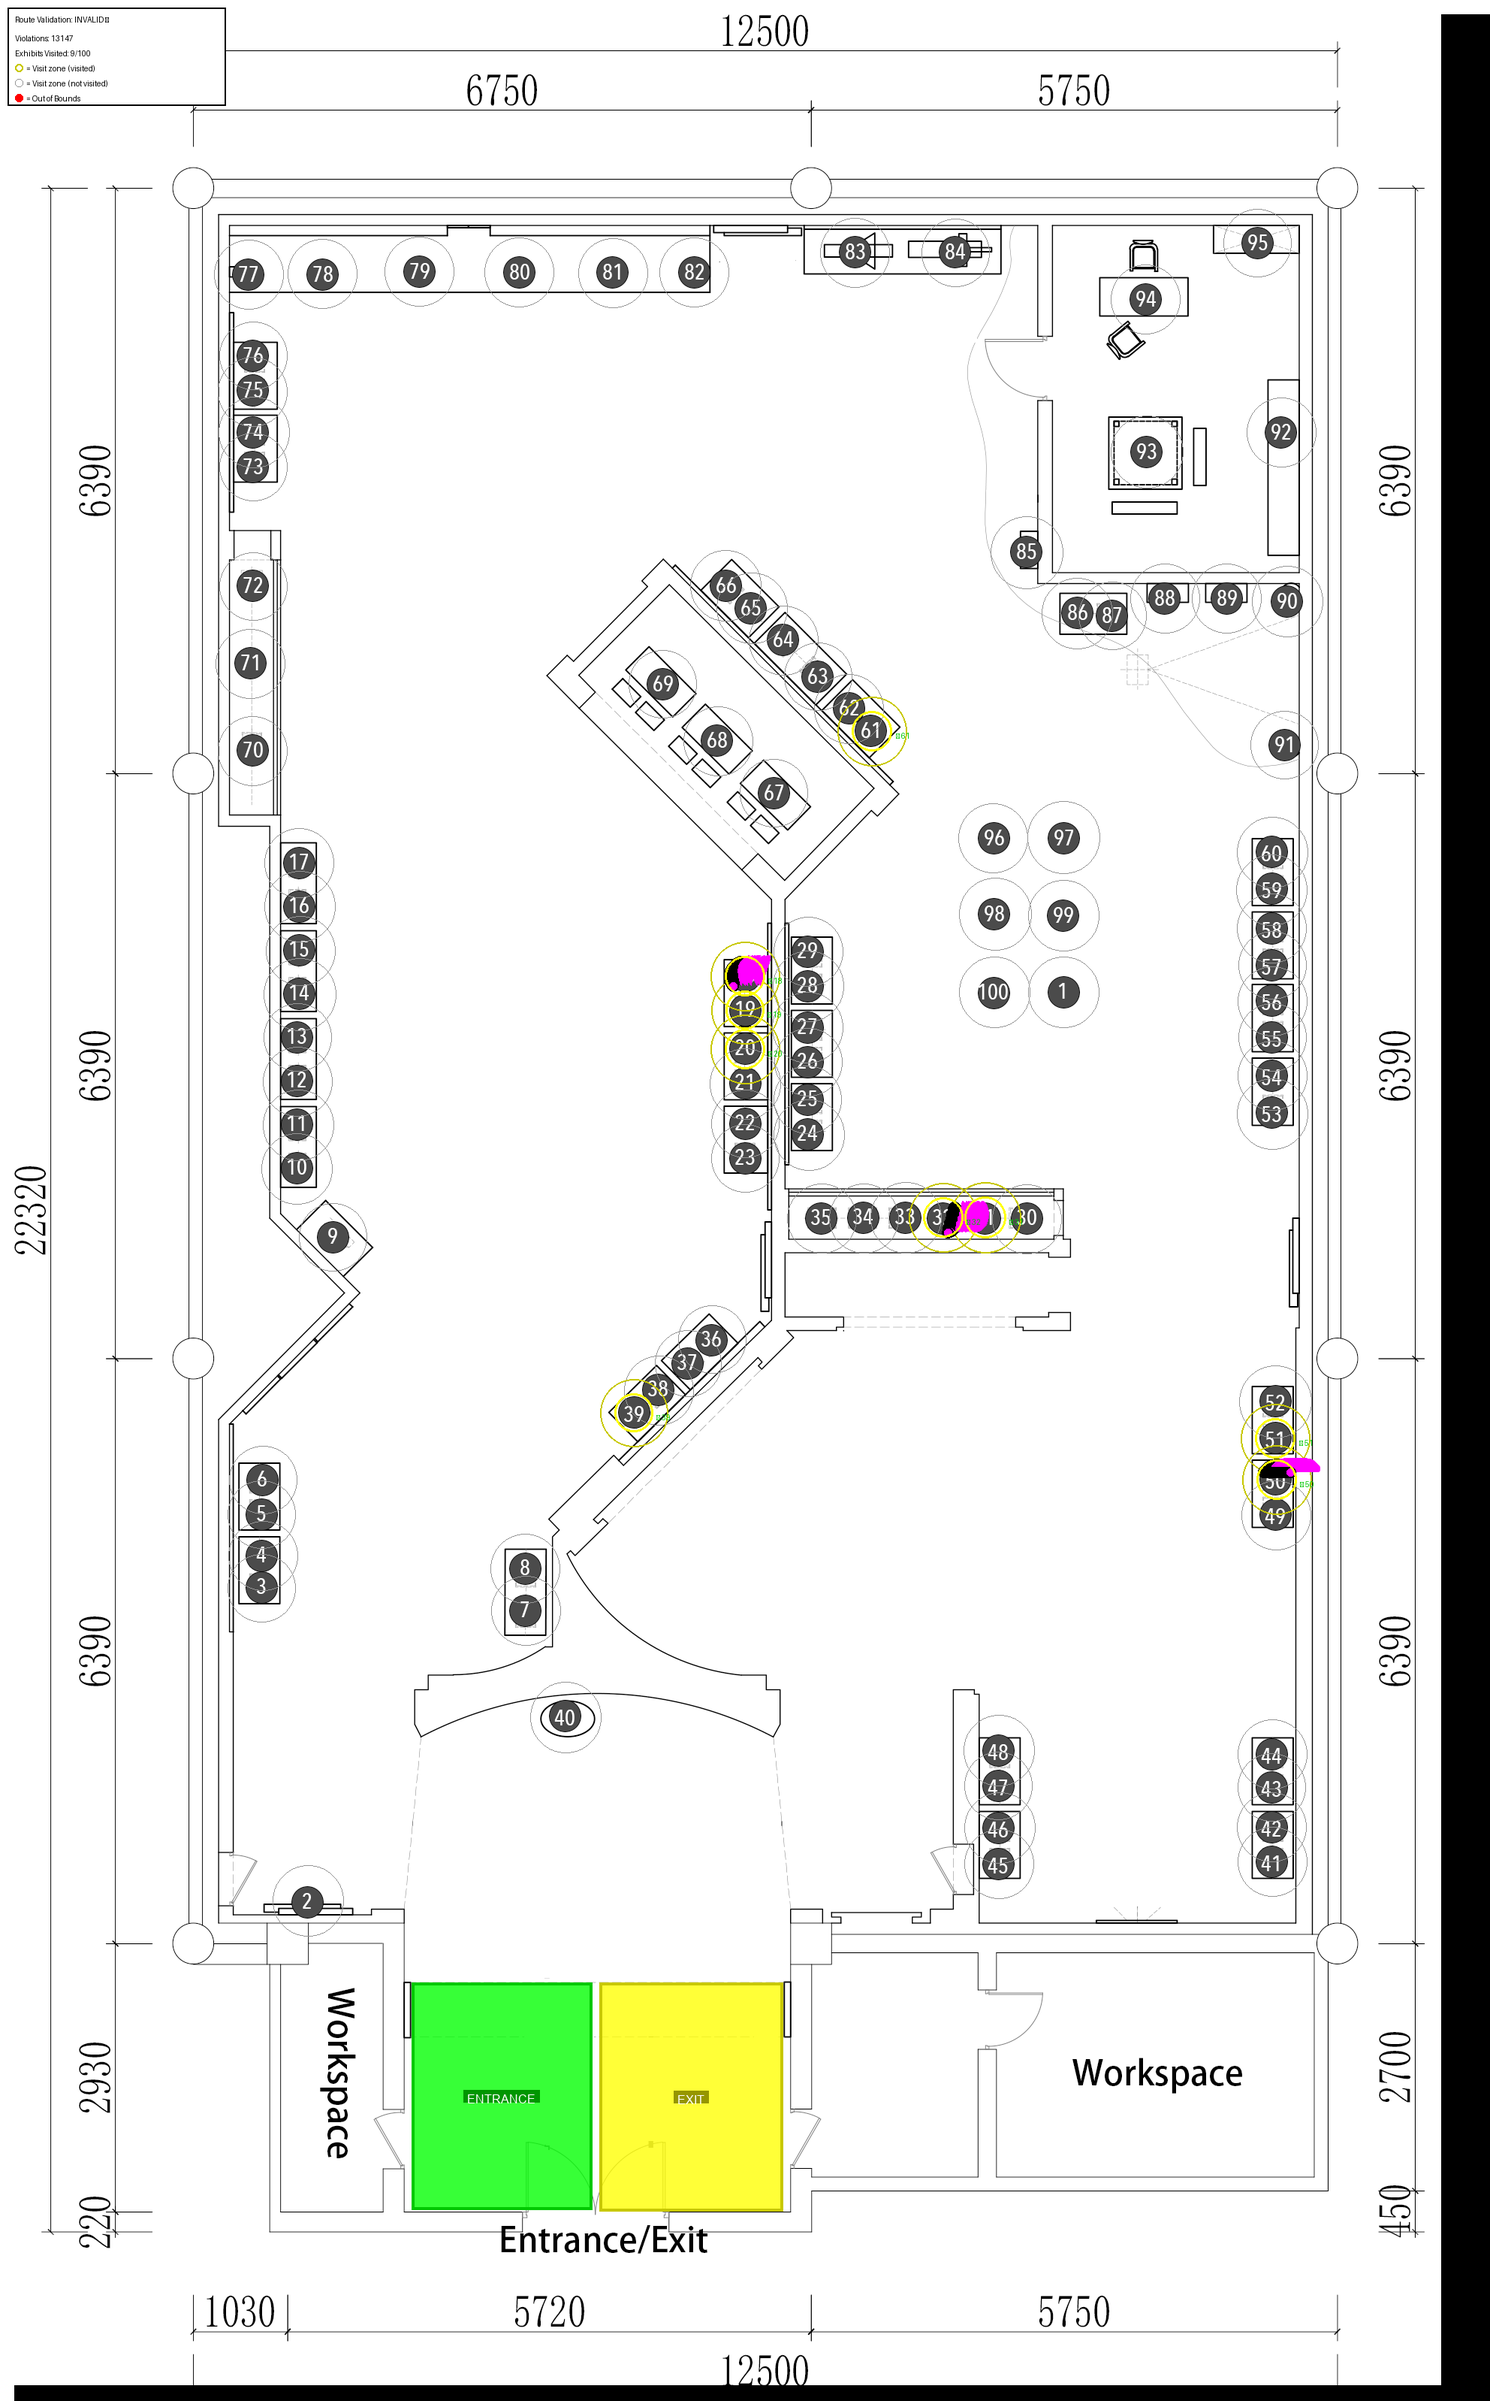
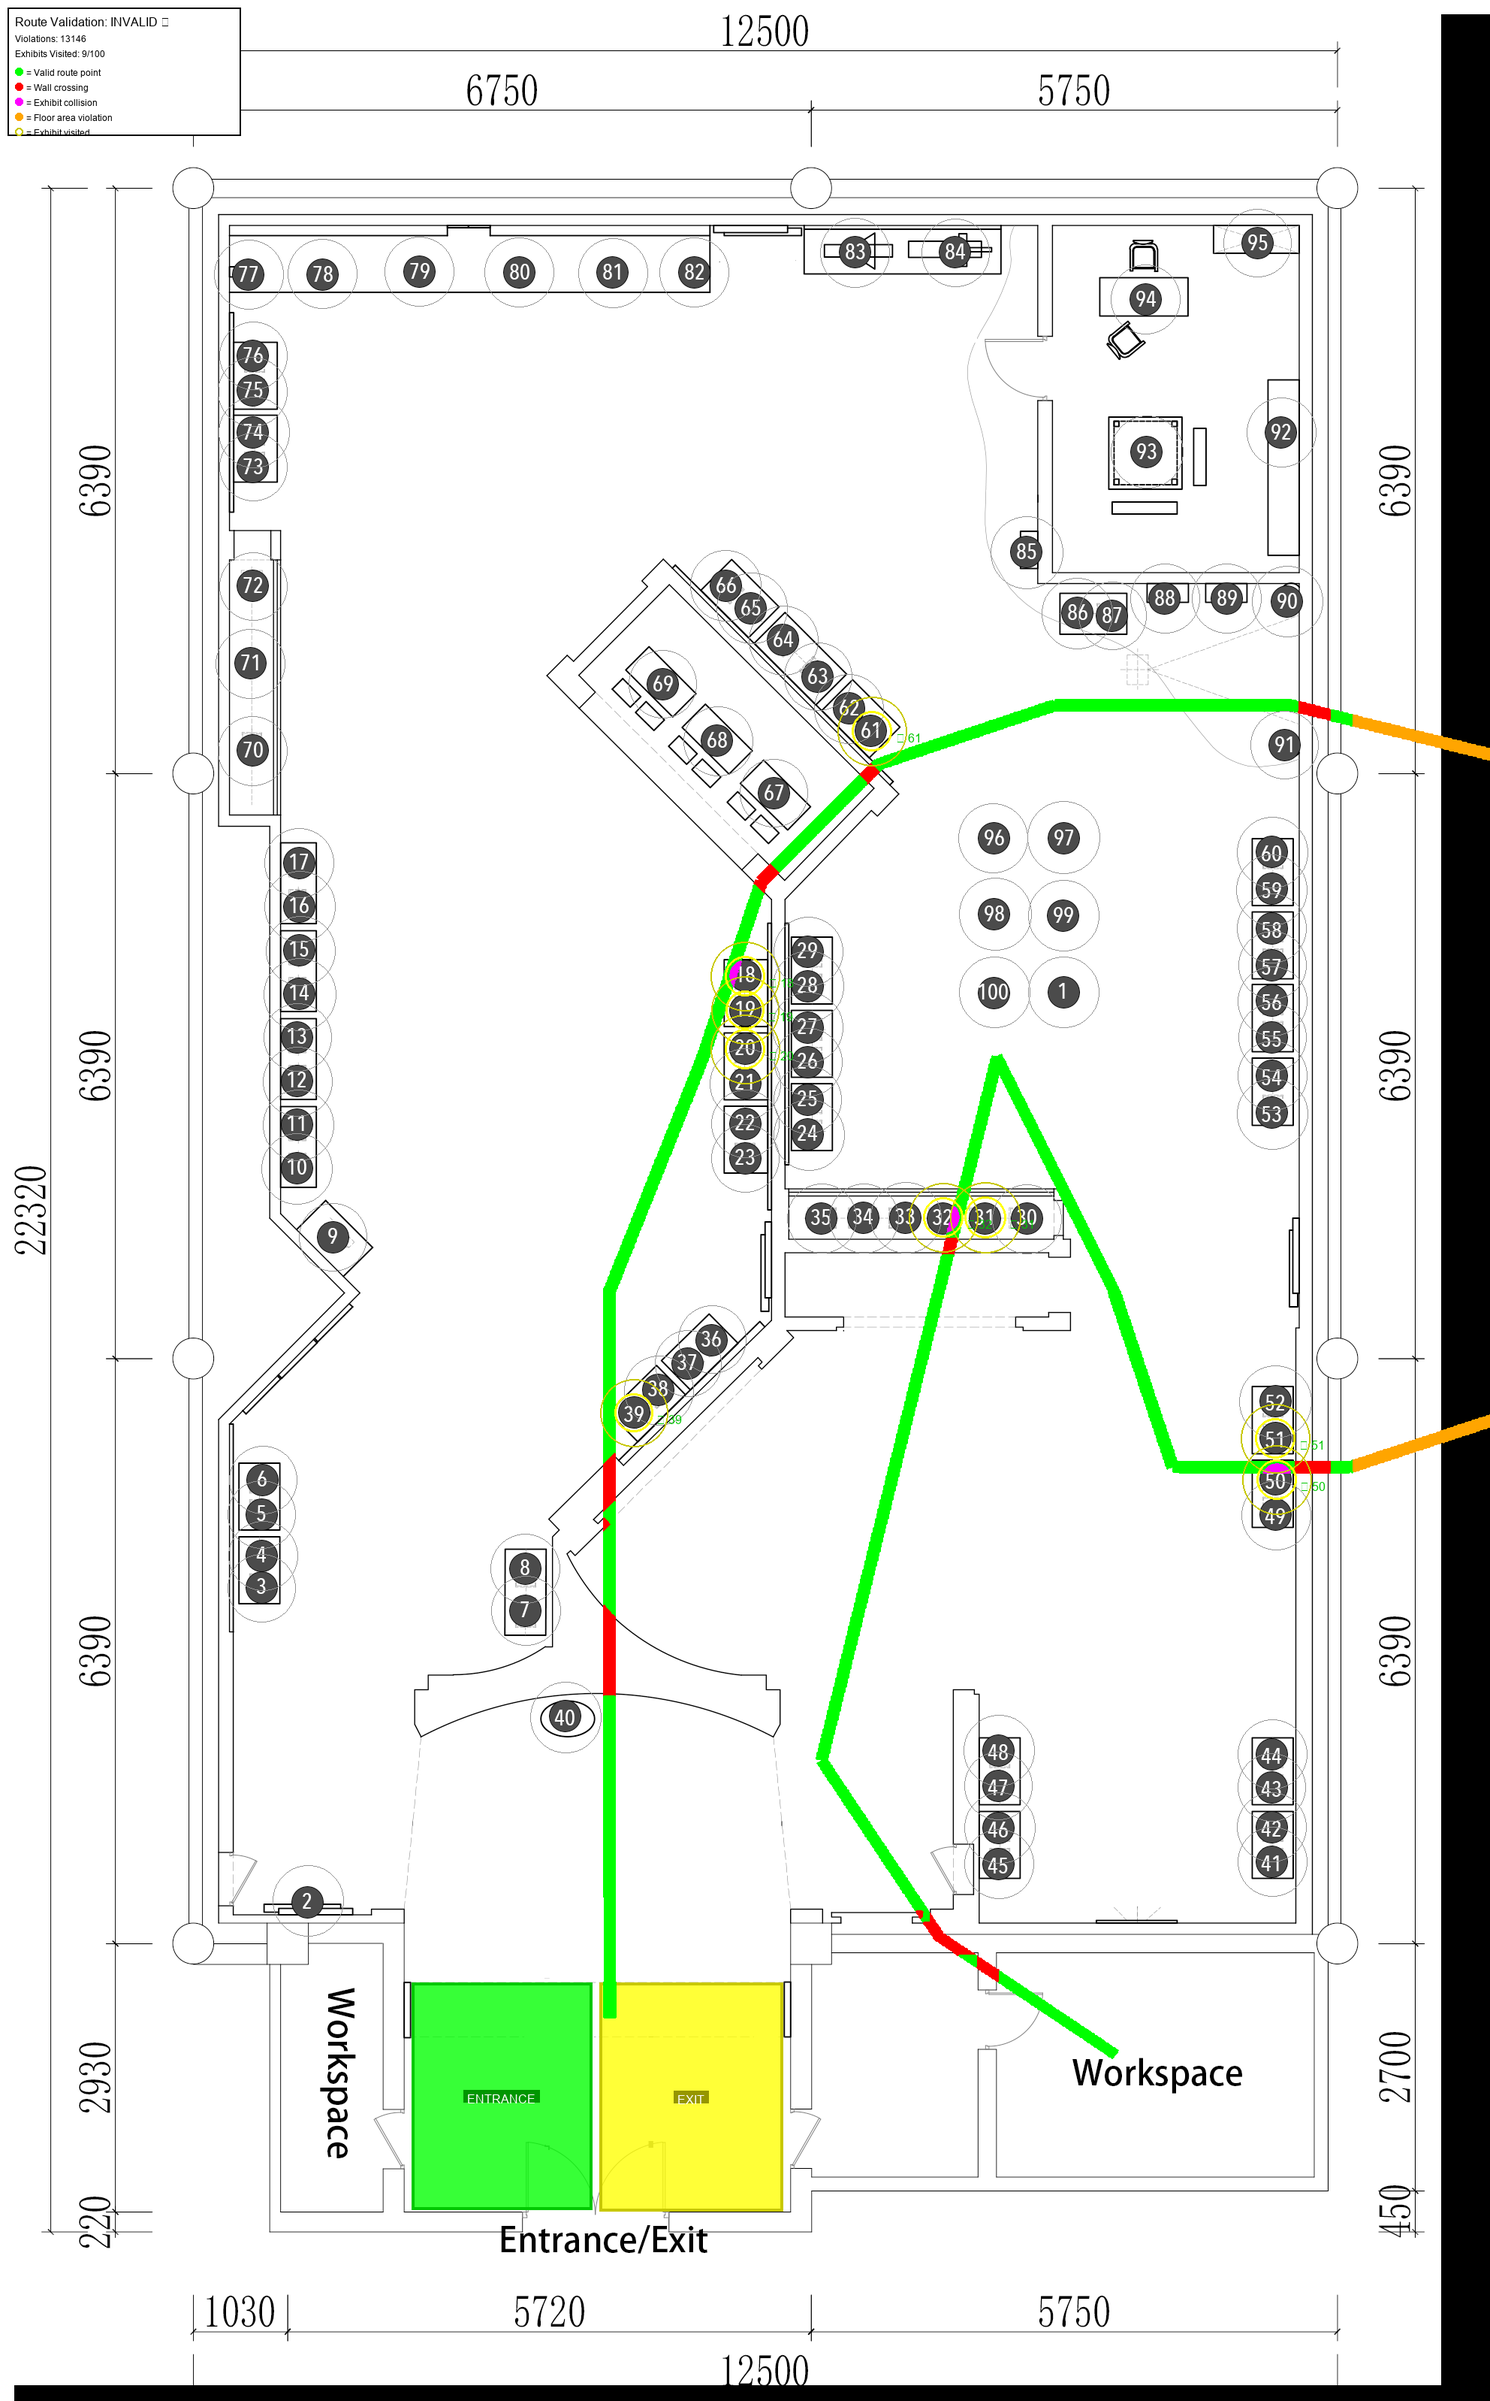
Only uses route points and updated visualization  in spatial_validator

diff --git a/spatial_validator/spatial_validator.py b/spatial_validator/spatial_validator.py
@@ -154,7 +154,7 @@ class SpatialValidator:
         
         return (x <= px <= x + width) and (y <= py <= y + height)
     
-    def validate_route(self, route_points):
+    def validate_route(self, route_points, endpoints=None):
         """
         Validate route against walls, exhibits, floor areas, entrance/exit.
         
@@ -167,11 +167,16 @@ class SpatialValidator:
         
         Args:
             route_points: List of (x, y) tuples
+            endpoints: Optional dict with 'start' and 'end' points from route extraction
         
         Returns:
             Dictionary with validation results
         """
         print("\nValidating route...")
+        
+        # Set route data if provided (from RouteExtractor)
+        if endpoints is not None:
+            self._determined_endpoints = endpoints
         
         violations = {
             'wall_crossings': [],
@@ -313,7 +318,7 @@ class SpatialValidator:
         
         return result
     
-    def visualize_validation(self, original_image_path, route_points, validation_result, output_path):
+    def visualize_validation(self, original_image_path, route_points, validation_result, output_path=None):
         """
         Create annotated image showing validation results.
         
@@ -325,7 +330,7 @@ class SpatialValidator:
         """
         print(f"\nCreating validation visualization...")
         
-        # Load image with OpenCV to draw skeleton pixels
+        # Load image with OpenCV to draw route pixels
         img_cv = cv2.imread(str(original_image_path))
         if img_cv is None:
             # Fallback to PIL
@@ -336,17 +341,75 @@ class SpatialValidator:
             img_cv = np.array(img_pil)
             img_cv = cv2.cvtColor(img_cv, cv2.COLOR_RGB2BGR)
         
-        # Get skeleton and draw it properly
-        skeleton = getattr(self, '_route_skeleton', None)
-        is_valid = validation_result['validation_summary']['is_valid']
+        # Create violation lookup for each route point
+        violations = validation_result['violations']
+        point_violations = {}  # Maps point index to list of violation types
         
-        if skeleton is not None:
-            # Draw actual skeleton pixels in green if valid, orange if invalid
-            route_color_bgr = (0, 255, 0) if is_valid else (0, 150, 255)  # Green or Orange in BGR
-            img_cv[skeleton > 0] = route_color_bgr
-            print(f"  Drew {cv2.countNonZero(skeleton)} skeleton pixels")
+        # Index wall crossings
+        for violation in violations['wall_crossings']:
+            idx = violation['index']
+            if idx not in point_violations:
+                point_violations[idx] = []
+            point_violations[idx].append('wall')
+        
+        # Index exhibit collisions
+        for violation in violations['exhibit_collisions']:
+            idx = violation['index']
+            if idx not in point_violations:
+                point_violations[idx] = []
+            point_violations[idx].append('exhibit')
+        
+        # Index floor area violations
+        for violation in violations['floor_area_violations']:
+            idx = violation['index']
+            if idx not in point_violations:
+                point_violations[idx] = []
+            point_violations[idx].append('floor_area')
+        
+        # Draw route points with color-coded violations
+        if route_points and len(route_points) > 0:
+            violation_counts = {'wall': 0, 'exhibit': 0, 'floor_area': 0, 'valid': 0}
+            
+            for i, point in enumerate(route_points):
+                x, y = int(point[0]), int(point[1])
+                
+                # Bounds check
+                if not (0 <= x < img_cv.shape[1] and 0 <= y < img_cv.shape[0]):
+                    continue
+                
+                # Determine color based on violations
+                if i in point_violations:
+                    violation_types = point_violations[i]
+                    
+                    # Priority: wall > exhibit > floor_area
+                    if 'wall' in violation_types:
+                        color = (0, 0, 255)  # Red for wall crossings
+                        violation_counts['wall'] += 1
+                    elif 'exhibit' in violation_types:
+                        color = (255, 0, 255)  # Magenta for exhibit collisions
+                        violation_counts['exhibit'] += 1
+                    elif 'floor_area' in violation_types:
+                        color = (0, 165, 255)  # Orange for floor area violations
+                        violation_counts['floor_area'] += 1
+                    else:
+                        color = (0, 255, 0)  # Green (shouldn't happen)
+                        violation_counts['valid'] += 1
+                else:
+                    # No violations - green
+                    color = (0, 255, 0)  # Green in BGR
+                    violation_counts['valid'] += 1
+                
+                # Draw point with determined color
+                cv2.circle(img_cv, (x, y), radius=1, color=color, thickness=-1)
+            
+            total = len(route_points)
+            print(f"  Drew {total} route points:")
+            print(f"    - {violation_counts['valid']}/{total} valid points ({100*violation_counts['valid']/total:.1f}%) [green]")
+            print(f"    - {violation_counts['wall']}/{total} wall crossings ({100*violation_counts['wall']/total:.1f}%) [red]")
+            print(f"    - {violation_counts['exhibit']}/{total} exhibit collisions ({100*violation_counts['exhibit']/total:.1f}%) [magenta]")
+            print(f"    - {violation_counts['floor_area']}/{total} floor area violations ({100*violation_counts['floor_area']/total:.1f}%) [orange]")
         else:
-            print(f"  ⚠ WARNING: No skeleton available, skipping route visualization")
+            print(f"  ⚠ WARNING: No route points available, skipping route visualization")
         
         # Convert to PIL for drawing text and markers
         img = Image.fromarray(cv2.cvtColor(img_cv, cv2.COLOR_BGR2RGB))
@@ -384,24 +447,6 @@ class SpatialValidator:
                                 center[0]+visit_zone_radius, center[1]+visit_zone_radius],
                                outline=(150, 150, 150), width=1)  # Gray outline
         
-        # Mark violations
-        violations = validation_result['violations']
-        
-        # Out of bounds points
-        for violation in violations['out_of_bounds']:
-            point = tuple(violation['point'])
-            draw.ellipse([point[0]-5, point[1]-5, point[0]+5, point[1]+5], 
-                        fill=(255, 0, 0), outline=(0, 0, 0), width=2)
-            draw.text((point[0]+8, point[1]-8), "OUT", fill=(255, 0, 0), font=font_small)
-        
-        # Exhibit collisions
-        for violation in violations['exhibit_collisions']:
-            point = tuple(violation['point'])
-            draw.ellipse([point[0]-7, point[1]-7, point[0]+7, point[1]+7], 
-                        fill=(255, 0, 255), outline=(0, 0, 0), width=2)
-            draw.text((point[0]+10, point[1]-10), f"HIT {violation['exhibit_id']}", 
-                     fill=(255, 0, 255), font=font_small)
-        
         # Highlight visited exhibits
         for exhibit in self.exhibits:
             if exhibit['shape'] == 'circle':
@@ -418,9 +463,10 @@ class SpatialValidator:
                     draw.text((center[0]+radius+10, center[1]), f"✓ {exhibit_id}", 
                              fill=(0, 200, 0), font=font)
         
-        # Add legend
+        # Add legend with color-coded route explanations
         legend_x, legend_y = 20, 20
-        legend_bg = [(legend_x-10, legend_y-10), (legend_x+280, legend_y+120)]
+        is_valid = validation_result['validation_summary']['is_valid']
+        legend_bg = [(legend_x-10, legend_y-10), (legend_x+300, legend_y+160)]
         draw.rectangle(legend_bg, fill=(255, 255, 255, 230), outline=(0, 0, 0), width=2)
         
         status = "VALID ✅" if is_valid else "INVALID ❌"
@@ -430,67 +476,31 @@ class SpatialValidator:
         draw.text((legend_x, legend_y+45), f"Exhibits Visited: {len(validation_result['validation_summary']['exhibits_visited'])}/{len(self.exhibits)}", 
                  fill=(0, 0, 0), font=font_small)
         
-        # Legend symbols
-        draw.ellipse([legend_x, legend_y+65, legend_x+10, legend_y+75], outline=(200, 200, 0), width=2)
-        draw.text((legend_x+15, legend_y+65), "= Visit zone (visited)", fill=(0, 0, 0), font=font_small)
-        draw.ellipse([legend_x, legend_y+85, legend_x+10, legend_y+95], outline=(150, 150, 150), width=1)
-        draw.text((legend_x+15, legend_y+85), "= Visit zone (not visited)", fill=(0, 0, 0), font=font_small)
-        draw.ellipse([legend_x, legend_y+105, legend_x+10, legend_y+115], fill=(255, 0, 0))
-        draw.text((legend_x+15, legend_y+105), "= Out of Bounds", fill=(0, 0, 0), font=font_small)
+        # Route color legend
+        y_offset = legend_y + 70
+        draw.ellipse([legend_x, y_offset, legend_x+10, y_offset+10], fill=(0, 255, 0))
+        draw.text((legend_x+15, y_offset), "= Valid route point", fill=(0, 0, 0), font=font_small)
+        
+        y_offset += 20
+        draw.ellipse([legend_x, y_offset, legend_x+10, y_offset+10], fill=(255, 0, 0))
+        draw.text((legend_x+15, y_offset), "= Wall crossing", fill=(0, 0, 0), font=font_small)
+        
+        y_offset += 20
+        draw.ellipse([legend_x, y_offset, legend_x+10, y_offset+10], fill=(255, 0, 255))
+        draw.text((legend_x+15, y_offset), "= Exhibit collision", fill=(0, 0, 0), font=font_small)
+        
+        y_offset += 20
+        draw.ellipse([legend_x, y_offset, legend_x+10, y_offset+10], fill=(255, 165, 0))
+        draw.text((legend_x+15, y_offset), "= Floor area violation", fill=(0, 0, 0), font=font_small)
+        
+        y_offset += 20
+        draw.ellipse([legend_x, y_offset, legend_x+10, y_offset+10], outline=(200, 200, 0), width=2)
+        draw.text((legend_x+15, y_offset), "= Exhibit visited", fill=(0, 0, 0), font=font_small)
         
         # Save
-        img.save(output_path)
-        print(f"Validation visualization saved to: {output_path}")
+        if output_path:
+            img.save(output_path)
+            print(f"Validation visualization saved to: {output_path}")
 
-
-
-
-
-def segments_intersect(self, p1, p2, p3, p4):
-    """
-    Check if segment p1→p2 intersects segment p3→p4.
-    Uses cross-product orientation test.
-    """
-    def cross(o, a, b):
-        return (a[0]-o[0]) * (b[1]-o[1]) - (a[1]-o[1]) * (b[0]-o[0])
-
-    d1 = cross(p3, p4, p1)
-    d2 = cross(p3, p4, p2)
-    d3 = cross(p1, p2, p3)
-    d4 = cross(p1, p2, p4)
-
-    if ((d1 > 0 and d2 < 0) or (d1 < 0 and d2 > 0)) and \
-       ((d3 > 0 and d4 < 0) or (d3 < 0 and d4 > 0)):
-        return True
-
-    # Collinear cases
-    if d1 == 0 and self._point_on_segment(p1, p3, p4): return True
-    if d2 == 0 and self._point_on_segment(p2, p3, p4): return True
-    if d3 == 0 and self._point_on_segment(p3, p1, p2): return True
-    if d4 == 0 and self._point_on_segment(p4, p1, p2): return True
-
-    return False
-
-def route_crosses_walls(self, skeleton_points):
-    """
-    Returns a list of (skeleton_pt, wall_id) pairs where the route
-    crosses a wall segment.
-    """
-    violations = []
-    # Build wall segments from all polylines
-    wall_segments = []
-    for wall in self.walls:
-        if wall['shape'] == 'polyline':
-            pts = [(p['x'], p['y']) for p in wall['coordinates']['points']]
-            for i in range(len(pts) - 1):
-                wall_segments.append((wall['id'], pts[i], pts[i+1]))
-
-    # Check each consecutive pair of skeleton points against every wall segment
-    for i in range(len(skeleton_points) - 1):
-        s1, s2 = skeleton_points[i], skeleton_points[i+1]
-        for wall_id, w1, w2 in wall_segments:
-            if self.segments_intersect(s1, s2, w1, w2):
-                violations.append((s1, wall_id))
-                break  # one violation per skeleton segment is enough
-
-    return violations
+        else:
+            img.show()

diff --git a/main.py b/main.py
@@ -16,13 +16,22 @@ def main():
         # tolerance_px         = args.tolerance,
    )
    
+
+   print("\n" + "="*70)
+   print("Spatial Constraint Validation")
+   print("="*70)
+
+
    validator = SpatialValidator(museum_annotations)
-   validation_result = validator.validate_route(route_extraction_results.points)
+   validation_result = validator.validate_route(
+        route_points=route_extraction_results.points,
+        endpoints=route_extraction_results.endpoints
+   )
    validator.visualize_validation(
         original_image_path=original_image_path,
         route_points=route_extraction_results.points,
         validation_result=validation_result,
-        output_path='main-test.png'
+        # output_path='main-test.png'
     )
 
     
